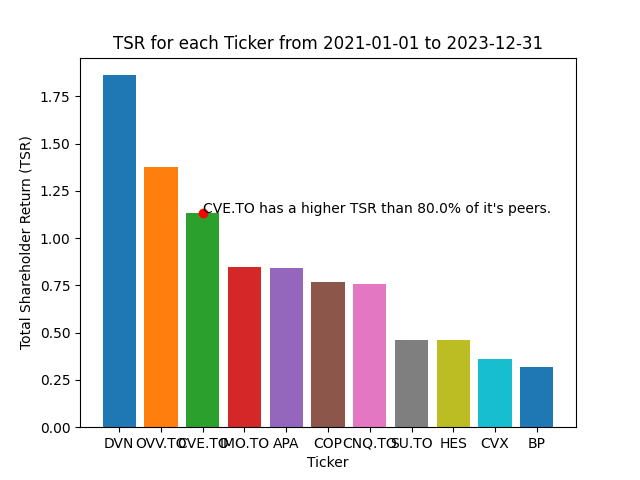
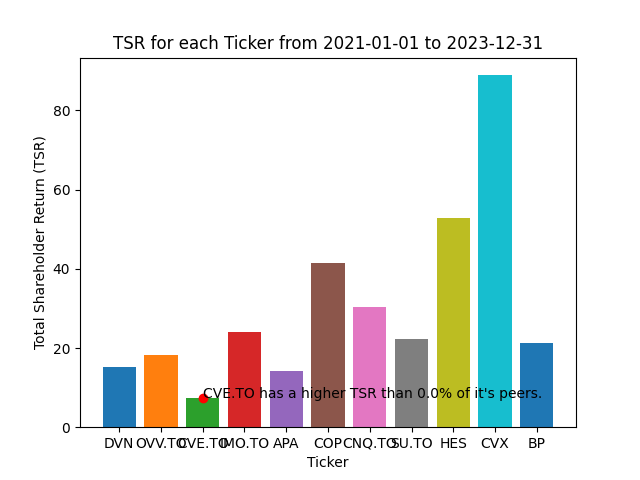
Added the Start/End VWAP and Dividends to output

diff --git a/RankTSR.py b/RankTSR.py
@@ -30,8 +30,7 @@ def calculate_tsr(tickers, price_data_df, dividend_data_df, start_date, end_date
     for ticker in tickers:
         # find the starting VWAP
         starting_vwap = price_data_df[(price_data_df.index >= start_date) &
-                                      (price_data_df.index <= end_date +
-                                       relativedelta(days=7)) &
+                                      (price_data_df.index <= end_date + relativedelta(days=7)) &
                                       (price_data_df['Ticker'] == ticker)].head(1)
 
         # find the ending VWAP
@@ -42,14 +41,15 @@ def calculate_tsr(tickers, price_data_df, dividend_data_df, start_date, end_date
         # Calculate the total amount of dividends issued over the period for CVE
         dividends_total = dividend_data_df[(dividend_data_df['Ticker'] == ticker) &
                                            (dividend_data_df.index >= start_date) &
-                                           (dividend_data_df.index <= end_date)].sum()
+                                           (dividend_data_df.index <= end_date)]['Dividends'].sum()
 
         # Calculate the total shareholder return (TSR)
         tsr = (ending_vwap['VWAP'].values[0] - starting_vwap['VWAP'].values[0] +
-               dividends_total['Dividends']) / starting_vwap['VWAP'].values[0]
+               dividends_total) / starting_vwap['VWAP'].values[0]
 
         # Append the ticker and TSR to the list
-        tsr_list.append([ticker, tsr])
+        tsr_list.append([ticker, starting_vwap['VWAP'].values[0],
+                         ending_vwap['VWAP'].values[0], dividends_total, tsr])
 
     return tsr_list
 
@@ -132,6 +132,10 @@ if __name__ == "__main__":
         # Append the dividends to the dataframe
         dividend_data_df = pd.concat([dividend_data_df, dividends], ignore_index=False)
 
+        # save the dataframe to a csv file
+        # price_data_df.to_csv('price_data.csv')
+        # dividend_data_df.to_csv('dividend_data.csv')
+
     # loop through the tsr_periods and calculate the TSR
     for tsr_period in tsr_periods:
         # calculate the tsr for the period
@@ -140,10 +144,11 @@ if __name__ == "__main__":
         tsr_list = calculate_tsr(tickers, price_data_df, dividend_data_df, tsr_period[1], tsr_period[2])
 
         # sort the list by decending tsr to print a table of tickers and their TSR
-        tsr_list.sort(key=lambda x: x[1], reverse=True)
+        tsr_list.sort(key=lambda x: x[4], reverse=True)
 
         # print the rank of each ticker by TSR
-        print(tabulate(tsr_list, headers=['Ticker', 'TSR'], tablefmt='fancy_grid'))
+        print(tabulate(tsr_list, headers=['Ticker', 'Start VWAP', 'End VWAP', 'Dividends', 'TSR'],
+                       tablefmt='fancy_grid'))
 
         # Convert the list into a dictionary
         tsr_list = {x[0]: x[1] for x in tsr_list}
